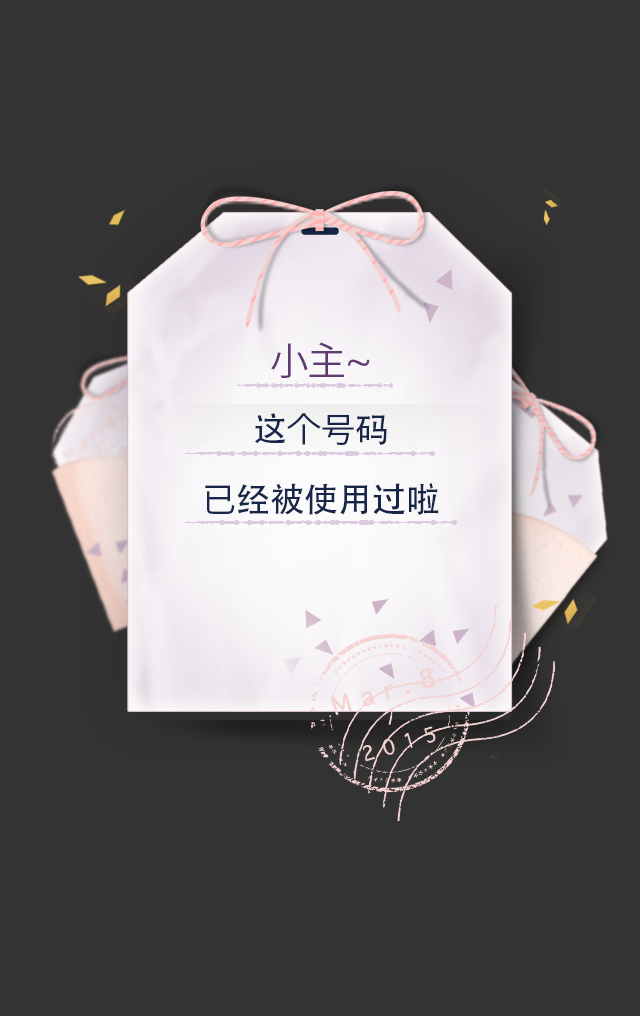
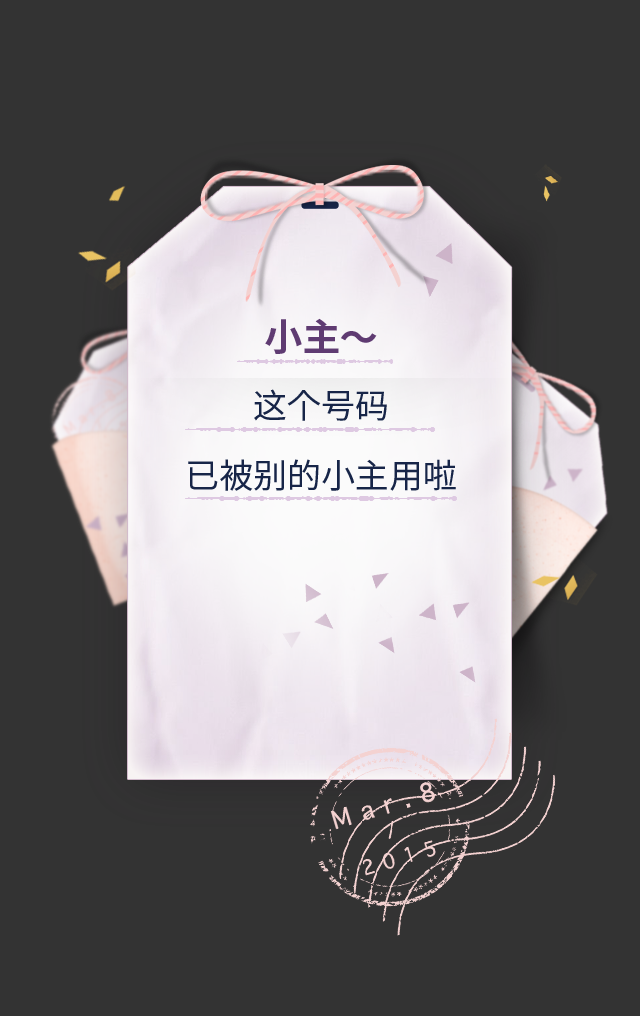
3.4 update

diff --git a/static/js/app.js b/static/js/app.js
@@ -332,6 +332,7 @@ if (IsIphone4()==true) {
     $(".campInfo_ip4").attr("src","images/pageInfo_ip4.jpg");
     $(".page_bg_ip4").attr("src","images/page_bg_ip4.jpg");
     $(".page_bg2_ip4").attr("src","images/page_bg2_ip4.jpg");
+    $(".wrongNumber_ip4").attr("src","images/wrongNumber_ip4.png");
 };
 
 
@@ -570,6 +571,7 @@ $(".page3_drawBtn").click(function(e){
                 else{
                     $(".usedNumber").removeClass("f-dn");
                     $(".usedNumber_btn").removeClass("f-dn");
+                    $(".continuePlay_btn").removeClass("f-dn");
                 }
             },
             error:function(data){
@@ -610,13 +612,16 @@ $(".page8_draw").click(function(){
                 {
                     console.log("value: "+data.data.value + "code: "+data.data.code);
                     lotteryValue = 25;
-                    $(".m-screen8").addClass("animated fadeOutUp1");
-                    $(".m-screen4").removeClass("f-dn");
-                    $(".m-screen4").addClass("animated fadeInUp1 f-ad1");
+                    
+                    $(".m-screen8").addClass("animated fadeOutUp1");                
+                    $('.m-screen2').removeClass("f-dn");
+                    $(".m-screen2").addClass("animated fadeInUp1 f-ad1" );            
+                    $(".m-screen2").find(".animated").removeClass("f-ann")
                 }
                 else{
                     $(".usedNumber").removeClass("f-dn");
                     $(".usedNumber_btn").removeClass("f-dn");
+                    $(".continuePlay_btn").removeClass("f-dn");
                 }
             },
             error:function(data){
@@ -823,6 +828,16 @@ $(".wrongNumber_btn").click(function(){
 $(".usedNumber_btn").click(function(){
     $(".usedNumber").addClass("f-dn");
     $(".usedNumber_btn").addClass("f-dn");
+    $(".continuePlay_btn").addClass("f-dn");
+})
+
+// 验证手机继续送祝福
+$(".continuePlay_btn").click(function(){
+    lotteryValue = 25;
+    $(".m-screen3").addClass("animated fadeOutUp1");
+    $(".m-screen8").addClass("animated fadeOutUp1");
+    $(".m-screen4").removeClass("f-dn");
+    $(".m-screen4").addClass("animated fadeInUp1 f-ad1");
 })
 
 /* 手机号验证框 */

diff --git a/static/home.html b/static/home.html
@@ -286,14 +286,20 @@
    
 
                 <div class="page8_card1 f-dn">
-                    <img src="images/page5_card1.png" width="100%">                    
+                    <img src="images/page8_card1.png" width="100%">                    
                 </div>
                 <div class="page8_card2 f-dn">
-                    <img src="images/page5_card2.png" width="100%">     
+                    <img src="images/page8_card2.png" width="100%">     
                 </div>
                 <div class="page8_card3 f-dn">
-                    <img src="images/page5_card3.png" width="100%">
-                </div>  
+                    <img src="images/page8_card3.png" width="100%">
+                </div> 
+                <div class="page8_from">
+                    <img src="images/page8_from.png" width="100%" alt="">
+                </div> 
+                <div class="page8_to">
+                    <img src="images/page8_to.png" width="100%" alt="">
+                </div> 
                 <div class="page8_wish">
                     <input class="page8_line1"  id="page8_line1" maxlength="12" readonly="readonly" value="乍见之欢，久处不腻，">
                     <input class="page8_line2" id="page8_line2" maxlength="12" readonly="readonly" value="闺蜜大过天!">
@@ -358,6 +364,9 @@
   </div>
   <div class="usedNumber_btn f-dn">
       <img src="images/wrongNumber_btn.png" width="100%" alt="">
+  </div>
+  <div class="continuePlay_btn f-dn">
+      <img src="images/continuePlay_btn.png" width="100%" alt="">
   </div>
 
   <!--  加载页 -->

diff --git a/static/css/style.css b/static/css/style.css
@@ -849,6 +849,21 @@ body .percent_symbol{
     letter-spacing: 0em;
 
 }
+
+.page8_from{
+    position: absolute;
+    top: 37%;
+    left: 48%;
+    width: 31.41%; /*201px*/
+}
+
+.page8_to{
+    position: absolute;
+    top: 21%;
+    left: 16%;
+    width: 26.25%; /*168px*/
+}
+
 .page8_input{
     position: absolute;
     left: 7.5%;
@@ -941,6 +956,13 @@ body .percent_symbol{
     width: 45.62%; /*292px*/ 
 }
 
+
+.continuePlay_btn{
+    position: absolute;
+    top: 56%;
+    left: 27%;
+    width: 45.62%;
+} 
 
 .f-fl{float:left}
 .f-fr{float:right}

diff --git a/static/css/iphone4.css b/static/css/iphone4.css
@@ -369,6 +369,22 @@ body .loading_dot3{
     z-index: 2;
 }
 
+.page8_from{
+    position: absolute;
+    top: 30%;
+    left: 48%;
+    width: 31.41%; /*201px*/
+    z-index: 3;
+}
+
+.page8_to{
+    position: absolute;
+    top: 14%;
+    left: 16%;
+    width: 26.25%; /*168px*/
+    z-index: 3;
+}
+
 .page8_line1{
     position: absolute;
     top: 17%;
@@ -465,3 +481,9 @@ body .loading_dot3{
     width: 45.62%; /*292px*/ 
 }
 
+.continuePlay_btn{
+    position: absolute;
+    top: 67%;
+    left: 27%;
+    width: 45.62%;
+} 
